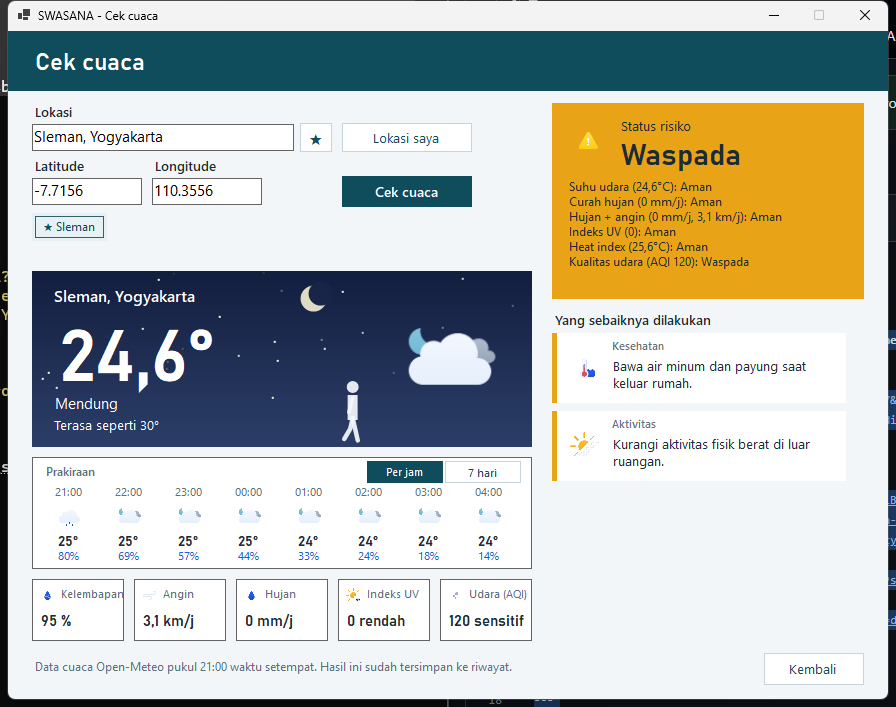
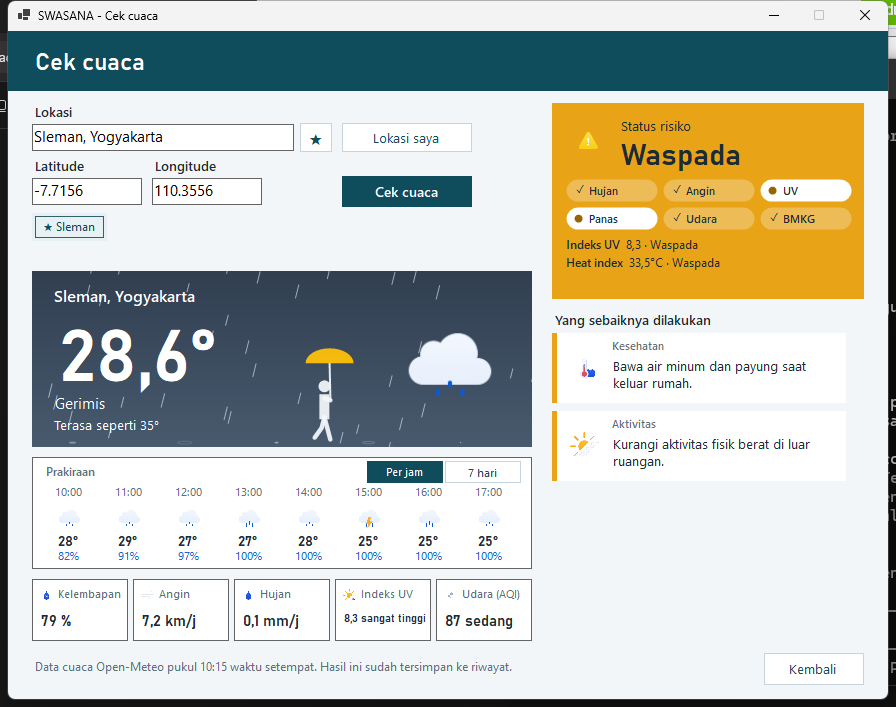
docs: peringatan BMKG, diagram, dan hasil pengujian terbaru

diff --git a/PENGUJIAN.md b/PENGUJIAN.md
@@ -1,6 +1,6 @@
 # Pengujian SWASANA (MVP Modul 10)
 
-Pengujian terakhir dilakukan pada 22/11/2026 malam (sekitar pukul 21.30 WIB) terhadap kode `main` terbaru (Windows 11, PostgreSQL 18). Database `swasana_db` dihapus dulu sebelum pengujian, supaya pembuatan database otomatis ikut teruji. Karena memakai cuaca sungguhan, nilai suhu dan status di bawah mengikuti kondisi saat pengujian.
+Pengujian terakhir dilakukan pada 23/11/2026 pagi (sekitar pukul 10.30 WIB, Windows 11) dengan aturan risiko berbasis BMKG dan jurnal. T01 dan T02 dijalankan pada PostgreSQL 18 lokal; T03 sampai T22 memakai database online Supabase dengan akun baru `penguji_2311`. Pembuatan database dan tabel otomatis diuji pada pengujian sebelumnya (database lokal dikosongkan dulu). Karena memakai cuaca sungguhan, nilai suhu dan status di bawah mengikuti kondisi saat pengujian.
 Langkah-langkahnya dijalankan otomatis lewat UI Automation. Bukti screenshot ada di folder [`docs/pengujian/`](docs/pengujian/).
 
 ## 1. Pengujian fungsional (black box)
@@ -9,48 +9,49 @@ Langkah-langkahnya dijalankan otomatis lewat UI Automation. Bukti screenshot ada
 |---|---|---|---|---|---|
 | T01 | Koneksi database | Password PostgreSQL salah | Pesan di form menjelaskan password salah | *"Password PostgreSQL salah. Pakai password yang dibuat saat menginstal PostgreSQL."* | Lulus |
 | T02 | Koneksi database | Port diisi `abc` | Pesan validasi di form | *"Host, database, dan username wajib diisi, dan port harus berupa angka (biasanya 5432)."* | Lulus |
-| T03 | Koneksi database | Data benar, database belum ada | Database, 6 tabel, dan data awal dibuat, lalu jendela login terbuka | Jendela login terbuka; 6 tabel dan 6 rekomendasi ada di database | Lulus |
+| T03 | Koneksi database | Exe dengan database online bawaan dibuka | Langsung tersambung, jendela login terbuka | Jendela login terbuka | Lulus |
 | T04 | Login | Username kosong | Pesan validasi di form | *"Isi username dulu untuk masuk."* | Lulus |
-| T05 | Login | Username baru `marcel` | User didaftarkan, menu utama terbuka | *"Halo, marcel"* | Lulus |
+| T05 | Login | Username baru `penguji_2311`, pilih **Yes** pada konfirmasi | Konfirmasi akun baru muncul; user didaftarkan, menu utama terbuka | *"Halo, penguji_2311"* | Lulus |
 | T06 | Menu | Klik **Tentang SWASANA** | Info aplikasi tampil | MessageBox Tentang | Lulus |
-| T07 | Navigasi | Buka **Cek cuaca** | Menu disembunyikan selama form terbuka | Menu tersembunyi | Lulus |
+| T07 | Navigasi | Buka **Cek cuaca** | Cek cuaca terbuka sebagai jendela dialog di atas menu | Sesuai | Lulus |
 | T08 | Cek cuaca | Lokasi kosong | Pesan validasi di form | *"Isi nama lokasi dulu, misalnya Sleman."* | Lulus |
 | T09 | Cek cuaca | Lokasi `Xyzqwerty` | Pesan lokasi tidak ditemukan | *"Lokasi "Xyzqwerty" tidak ditemukan. ..."* | Lulus |
 | T10 | Saran lokasi (Web API) | Ketik `Slem`, lalu tekan Enter | Daftar saran muncul; memilih saran mengisi nama dan koordinat lalu langsung mengecek cuaca | 8 saran tampil; terpilih *Sleman, Yogyakarta* (-7.7156, 110.3556) | Lulus |
-| T11 | Cuaca + risiko (Web API) | Hasil cek Sleman | Suhu, kondisi, detail, prakiraan per jam, status, rincian 5 aturan beserta nilainya, dan rekomendasi tampil, lalu tersimpan | 24,6°, Mendung, 95 %, AQI 120 → **Waspada** (dari aturan kualitas udara); tersimpan | Lulus |
+| T11 | Cuaca + risiko (Web API) | Hasil cek Sleman | Suhu, kondisi, detail, prakiraan per jam, status, chip 6 aturan, rincian aturan pemicu beserta nilainya, dan rekomendasi tampil, lalu tersimpan | 28,6°, Gerimis, 79 %, 7,2 km/j, 0,1 mm/j → **Waspada** (indeks UV 8,3 dan heat index 33,5 °C); tersimpan | Lulus |
 | T20 | Lokasi favorit | Klik ☆ pada Sleman | Lokasi tersimpan sebagai favorit, muncul tombol cepat, bintang menjadi ★ | *"Sleman, Yogyakarta disimpan ke favorit."*, tombol ★ Sleman muncul | Lulus |
 | T21 | Prakiraan 7 hari | Klik **7 hari** | Tampil 7 kolom hari: ikon, suhu maks/min, peluang hujan | 7 kolom tampil | Lulus |
 | T12 | Validasi koordinat | Latitude `100` | Pesan validasi di form | *"Latitude harus -90 s.d. 90 dan longitude -180 s.d. 180."* | Lulus |
-| T13 | Status sesuai aturan | Lokasi `Ho Chi Minh` | Status dihitung dari 5 aturan, kartu rekomendasi sesuai status | 28,2°, Cerah, **Waspada**; kartu saran Waspada | Lulus |
-| T14 | Koordinat manual | Alice Springs, lat `-23,698` lon `133,8807` (pakai koma) | Koma diterima; status dihitung dari 5 aturan | 28,1° (malam), semua aturan Aman → **Aman** | Lulus |
+| T13 | Status sesuai aturan | Lokasi `Ho Chi Minh` | Status dihitung dari 6 aturan, kartu rekomendasi sesuai status | 31,8°, Mendung, **Waspada**; kartu saran Waspada | Lulus |
+| T14 | Koordinat manual | Alice Springs, lat `-23,698` lon `133,8807` (pakai koma) | Koma diterima; status dihitung dari 6 aturan | 36,1°, **Waspada** (indeks UV 9,5 dan heat index 34,3 °C); tidak Bahaya karena suhu udara saja tidak lagi dinilai | Lulus |
 | T22 | Lokasi favorit | Klik tombol **★ Sleman** | Cuaca Sleman langsung dicek sekali klik | Sleman, Yogyakarta, **Waspada** | Lulus |
-| T15 | Navigasi | Klik **Kembali** | Menu tampil lagi | Menu tampil | Lulus |
-| T16 | Riwayat + grafik tren | Buka **Riwayat** | Semua pengecekan user tampil, terbaru di atas; grafik suhu maks/min harian dari `weather_data` | 4 data; grafik tampil (1 hari data, dengan petunjuk bahwa tren butuh ≥ 2 hari) | Lulus |
+| T15 | Navigasi | Klik **Kembali** | Jendela Cek cuaca tertutup, menu aktif lagi | Sesuai | Lulus |
+| T16 | Riwayat + grafik tren | Buka **Riwayat** | Semua pengecekan user tampil, terbaru di atas; grafik suhu maks/min harian dari `weather_data` | 4 data; grafik tampil | Lulus |
 | T17 | Riwayat | Cari `hO cHi` | Hanya Ho Chi Minh tampil (tidak peka huruf besar/kecil) | 1 data | Lulus |
 | T18 | Riwayat | Cari `Bandung` | Pesan riwayat kosong | 0 data, pesan *"Tidak ada riwayat untuk "Bandung"..."* | Lulus |
 | T19 | Keluar | Klik **Keluar** | Aplikasi tertutup | Proses berhenti | Lulus |
 
-Ketiga status (Aman, Waspada, Bahaya) beserta batas setiap aturan juga diuji lewat unit test, karena status dari cuaca sungguhan bergantung pada kondisi saat pengujian. Pada pengujian siang hari sebelumnya, Alice Springs (37 °C) menghasilkan status **Bahaya**.
+Ketiga status (Aman, Waspada, Bahaya) beserta batas setiap aturan juga diuji lewat unit test, karena status dari cuaca sungguhan bergantung pada kondisi saat pengujian. Contohnya hujan mulai 20 mm/jam, angin di atas 45 km/jam saat hujan lebat, heat index mulai 41 °C, AQI mulai 151, dan peringatan BMKG berkeparahan *Severe* menghasilkan **Bahaya**.
 
 Diuji manual (di luar skrip otomatis):
 
 | Fitur | Hasil |
 |---|---|
+| **Peringatan dini BMKG** | Rajabasa, Lampung (-4,2943; 105,2519) pada 23/11/2026 pukul 10.00 WIB: peringatan *Hujan Lebat dan Petir* (berlaku s.d. 11.30) terdeteksi, aturan BMKG **Waspada**, chip BMKG menyala ([screenshot](docs/pengujian/T23-peringatan-bmkg.png)) |
 | **Lokasi saya** (layanan lokasi Windows) | Menemukan *Melati, Yogyakarta* (-7.7593, 110.3712), lalu langsung menampilkan cuacanya |
 | Adegan animasi per cuaca | Hujan: orang berpayung + rintik. Panas: topi lebar + botol minum + gelombang panas. Sangat panas: berteduh di bawah payung |
 | Animasi saat hasil keluar | Garis loading, suhu berjalan ke nilai baru, warna langit berganti halus, kartu risiko berputar 3D, kartu rekomendasi masuk bergantian |
 
 ## 2. Pengujian unit (xUnit)
 
-Perintah: `dotnet test Swasana.Tests` → **61 lulus, 0 gagal**.
+Perintah: `dotnet test Swasana.Tests` → **72 lulus, 0 gagal**.
 
 | Test | Yang diuji |
 |---|---|
 | `UvRule_SkalaWho`, `HeatIndex_SesuaiTabelNoaa`, `HeatIndexRule_Klasifikasi`, `KualitasUdaraRule_UsAqi` | Aturan baru: UV 8/11, heat index NOAA (32 °C Waspada, 41 °C Bahaya), US AQI 101/151; AQI tidak tersedia tidak menaikkan risiko |
-| `RiskEvaluator_MemakaiLimaAturan` | Evaluator menjalankan 5 aturan; risiko naik hanya karena kualitas udara |
+| `RiskEvaluator_MemakaiEnamAturan` | Evaluator menjalankan 6 aturan; risiko naik hanya karena kualitas udara |
 | `ParseAirQuality_*`, `ParseCurrent_MembacaPrakiraanHarian` | Data AQI/PM2.5 dan prakiraan 7 hari dibaca benar, nilai null dari API ditangani |
 | `EvaluateRisk_HujanDanAnginSesuaiBmkg` (7 kasus) | Batas kategori hujan BMKG: Aman (kering; 9,9 mm/jam), Waspada (10 dan 19,9 mm/jam; hujan 15 mm/jam dengan angin tepat 45 km/jam), Bahaya (tepat 20 mm/jam; hujan 15 mm/jam + angin 46 km/jam) |
-| `Rincian_BerisiSemuaAturan` | `RiskEvaluator.rincian()` mengembalikan hasil 5 aturan; 34 °C dengan kelembapan 75 % membuat heat index Bahaya |
+| `Rincian_BerisiSemuaAturan` | `RiskEvaluator.rincian()` mengembalikan hasil 6 aturan; 34 °C dengan kelembapan 75 % membuat heat index Bahaya |
 | `ParseCurrent_MembacaJsonOpenMeteo` | JSON cuaca dibaca menjadi `WeatherData`, termasuk kode cuaca dan siang/malam |
 | `ParseGeocode_*`, `ParseSaran_*` | Hasil geocoding dan saran lokasi; lokasi Indonesia didahulukan; tanpa hasil menghasilkan null/kosong |
 | `NamaCuaca_SesuaiKodeWmo` (7 kasus) | Kode cuaca WMO dipetakan ke ikon yang benar (cerah siang/malam, hujan, hujan lebat, badai) |
@@ -60,6 +61,9 @@ Perintah: `dotnet test Swasana.Tests` → **61 lulus, 0 gagal**.
 | `NilaiAturan_MenampilkanNilaiYangDinilai`, `WarnaLangit_MalamTidakDipengaruhiKodeCuaca` | Nilai yang dinilai tiap aturan ditampilkan; langit malam sama untuk semua kode cuaca |
 | `BuatCsv_*` | Ekspor riwayat: header dan satu baris per data; nama lokasi dengan koma atau tanda kutip diberi kutip, awalan `=` diamankan dari rumus Excel |
 | `BacaUri_*` | URI koneksi Supabase dipecah ke host, port, database, dan username; password placeholder `[YOUR-...]` diabaikan, password dengan karakter khusus didekode, dan teks yang bukan URI menghasilkan null |
+| `BacaCap_MembacaInfoDanPolygon`, `DiDalam_RayCasting` (3 kasus) | Dokumen CAP peringatan dini BMKG terbaca (kejadian, keparahan, waktu berakhir, polygon); titik di dalam/luar polygon wilayah peringatan |
+| `Pilih_HanyaPeringatanYangMasihBerlaku`, `CariAsync_LuarIndonesiaTanpaInternet` | Peringatan kedaluwarsa atau di luar wilayah diabaikan; lokasi di luar Indonesia tidak mengakses BMKG |
+| `PeringatanBmkgRule_KeparahanCap` (5 kasus) | Tanpa peringatan → Aman; Minor/Moderate → Waspada; Severe/Extreme → Bahaya |
 | `PilihSsl_OnlineWajibTerenkripsi` | Host lokal (`localhost`, `127.0.0.1`) memakai SSL `Prefer`; server online memakai `Require` |
 
 ## 3. Pengujian instalasi dan aksesibilitas

diff --git a/README.md b/README.md
@@ -35,7 +35,7 @@ Aplikasi cuaca pada umumnya hanya menampilkan angka mentah (suhu, kelembapan, cu
 | Lokasi saya | Memakai layanan lokasi Windows, lalu nama tempatnya dicari otomatis |
 | Lokasi favorit | Simpan lokasi dengan tombol ☆, cek cuacanya sekali klik |
 | Prakiraan | Per jam (8 jam) dan 7 hari ke depan |
-| Status risiko | Aman / Waspada / Bahaya dari 5 aturan berbasis BMKG, WHO, NOAA, dan US EPA, ditampilkan beserta nilai yang dinilai |
+| Status risiko | Aman / Waspada / Bahaya dari 6 aturan berbasis BMKG, WHO, NOAA, dan US EPA, termasuk peringatan dini resmi BMKG, ditampilkan beserta nilai yang dinilai |
 | Saran tindakan | Kartu saran per kategori (aktivitas, kesehatan, perlindungan diri) |
 | Riwayat | Semua pengecekan tersimpan, bisa dicari per lokasi dan disaring per status, dengan grafik tren suhu harian dan ekspor ke CSV |
 | Database | PostgreSQL lokal atau database online (Supabase, cukup tempel URI); database dan tabel dibuat otomatis |
@@ -62,6 +62,10 @@ Aplikasi cuaca pada umumnya hanya menampilkan angka mentah (suhu, kelembapan, cu
 
 ![Alice Springs](docs/pengujian/T14-hasil-alice-springs.png)
 
+**Peringatan dini resmi BMKG ikut dinilai (lokasi di Indonesia)**
+
+![Peringatan BMKG](docs/pengujian/T23-peringatan-bmkg.png)
+
 **Riwayat dan grafik tren suhu harian**
 
 ![Riwayat](docs/pengujian/T16-riwayat-dan-tren.png)
@@ -79,7 +83,7 @@ Kebutuhan: Windows 10 (versi 2004+) / 11 64-bit dan koneksi internet. Panduan le
 
 ## Aturan risiko
 
-Status akhir adalah tingkat tertinggi dari lima aturan. Setiap aturan adalah class turunan dari `RiskRule` (inheritance) yang mengisi method `Evaluate()` dengan caranya sendiri (polymorphism). Ambang tiap aturan diambil dari peraturan BMKG, pedoman resmi, dan jurnal.
+Status akhir adalah tingkat tertinggi dari enam aturan. Setiap aturan adalah class turunan dari `RiskRule` (inheritance) yang mengisi method `Evaluate()` dengan caranya sendiri (polymorphism). Ambang tiap aturan diambil dari peraturan BMKG, pedoman resmi, dan jurnal.
 
 | Aturan | Waspada | Bahaya | Rujukan |
 |---|---|---|---|
@@ -88,8 +92,9 @@ Status akhir adalah tingkat tertinggi dari lima aturan. Setiap aturan adalah cla
 | Indeks UV | sangat tinggi, 8–10 | ekstrem, mulai 11 | [3], [4] |
 | Heat index (dari suhu dan kelembapan) | *extreme caution*, 32–41 °C | *danger*, mulai 41 °C | [5], [6] |
 | Kualitas udara (US AQI) | tidak sehat bagi kelompok sensitif, 101–150 | tidak sehat, mulai 151 | [7], [8] |
+| Peringatan dini BMKG (khusus Indonesia) | ada peringatan aktif di lokasi | peringatan berkeparahan *Severe* atau *Extreme* | [9], [10] |
 
-Aturan suhu udara saja (di atas 33/35 °C) dihapus karena ambang itu tidak ada di peraturan BMKG maupun jurnal; BMKG mendefinisikan suhu ekstrem sebagai penyimpangan dari normal setempat. Penilaian panas memakai heat index, yang menggabungkan suhu dan kelembapan.
+Aturan suhu udara saja (di atas 33/35 °C) dihapus karena ambang itu tidak ada di peraturan BMKG maupun jurnal; BMKG mendefinisikan suhu ekstrem sebagai penyimpangan dari normal setempat. Penilaian panas memakai heat index, yang menggabungkan suhu dan kelembapan. Peringatan dini BMKG diambil dari feed resmi BMKG (format CAP): aplikasi mengecek apakah koordinat lokasi berada di dalam polygon wilayah peringatan yang masih berlaku.
 
 ### Rujukan
 
@@ -101,6 +106,8 @@ Aturan suhu udara saja (di atas 33/35 °C) dihapus karena ambang itu tidak ada d
 6. Anderson, G. B., Bell, M. L., & Peng, R. D. (2013). Methods to calculate the heat index as an exposure metric in environmental health research. *Environmental Health Perspectives, 121*(10), 1111–1119. https://doi.org/10.1289/ehp.1206273
 7. U.S. Environmental Protection Agency. (2018). *Technical Assistance Document for the Reporting of Daily Air Quality – the Air Quality Index (AQI)* (EPA-454/B-18-007).
 8. Plaia, A., & Ruggieri, M. (2011). Air quality indices: a review. *Reviews in Environmental Science and Bio/Technology, 10*(2), 165–179. https://doi.org/10.1007/s11157-010-9227-2
+9. Badan Meteorologi, Klimatologi, dan Geofisika. (2022). *Peraturan BMKG Nomor 9 Tahun 2022 tentang Peringatan Dini Cuaca Ekstrem*. Data: https://www.bmkg.go.id/alerts/nowcast/id
+10. OASIS. (2010). *Common Alerting Protocol Version 1.2*. OASIS Standard. http://docs.oasis-open.org/emergency/cap/v1.2/CAP-v1.2-os.html
 
 ## Rancangan sistem
 
@@ -143,7 +150,7 @@ Enam tabel di PostgreSQL. Database, tabel, dan data awal dibuat otomatis oleh ap
 
 ### Layanan dan aturan risiko
 
-`RiskEvaluator` menyimpan lima objek turunan `RiskRule` dalam satu daftar dan memanggil `Evaluate()` milik masing-masing (polymorphism).
+`RiskEvaluator` menyimpan enam objek turunan `RiskRule` dalam satu daftar dan memanggil `Evaluate()` milik masing-masing (polymorphism).
 
 ![Class diagram layanan](docs/diagram/class-layanan.png)
 
@@ -160,7 +167,7 @@ Sumber semua diagram (format Mermaid) ada di folder [`docs/diagram`](https://git
 |---|---|
 | Aplikasi | C#, .NET 10, Windows Forms |
 | Basis data | PostgreSQL (lokal) atau Supabase (online), driver Npgsql |
-| Data cuaca | Open-Meteo: Geocoding, Forecast, Air Quality |
+| Data cuaca | Open-Meteo: Geocoding, Forecast, Air Quality; BMKG: peringatan dini cuaca (CAP) |
 | Lokasi | Layanan lokasi Windows, BigDataCloud (nama tempat) |
 | Tampilan | Ikon Meteocons, animasi FluentTransitions |
 | Pengujian | xUnit, UI Automation |
@@ -191,6 +198,7 @@ Menjalankan dari kode sumber: `dotnet run --project Swasana`; menjalankan test: 
 ## Kredit
 
 - Data cuaca, kualitas udara, dan geocoding: [Open-Meteo](https://open-meteo.com) (CC BY 4.0)
+- Peringatan dini cuaca: [BMKG](https://www.bmkg.go.id/alerts/nowcast/id)
 - Nama tempat dari koordinat: [BigDataCloud](https://www.bigdatacloud.com)
 - Ikon cuaca: [Meteocons](https://github.com/basmilius/meteocons) oleh Bas Milius (MIT)
 - Animasi: [FluentTransitions](https://github.com/awaescher/FluentTransitions) (MIT)

diff --git a/docs/index.md b/docs/index.md
@@ -40,7 +40,7 @@ Aplikasi cuaca pada umumnya hanya menampilkan angka mentah (suhu, kelembapan, cu
 | Lokasi saya | Memakai layanan lokasi Windows, lalu nama tempatnya dicari otomatis |
 | Lokasi favorit | Simpan lokasi dengan tombol ☆, cek cuacanya sekali klik |
 | Prakiraan | Per jam (8 jam) dan 7 hari ke depan |
-| Status risiko | Aman / Waspada / Bahaya dari 5 aturan berbasis BMKG, WHO, NOAA, dan US EPA, ditampilkan beserta nilai yang dinilai |
+| Status risiko | Aman / Waspada / Bahaya dari 6 aturan berbasis BMKG, WHO, NOAA, dan US EPA, termasuk peringatan dini resmi BMKG, ditampilkan beserta nilai yang dinilai |
 | Saran tindakan | Kartu saran per kategori (aktivitas, kesehatan, perlindungan diri) |
 | Riwayat | Semua pengecekan tersimpan, bisa dicari per lokasi dan disaring per status, dengan grafik tren suhu harian dan ekspor ke CSV |
 | Database | PostgreSQL lokal atau database online (Supabase, cukup tempel URI); database dan tabel dibuat otomatis |
@@ -67,6 +67,10 @@ Aplikasi cuaca pada umumnya hanya menampilkan angka mentah (suhu, kelembapan, cu
 
 ![Alice Springs](pengujian/T14-hasil-alice-springs.png)
 
+**Peringatan dini resmi BMKG ikut dinilai (lokasi di Indonesia)**
+
+![Peringatan BMKG](pengujian/T23-peringatan-bmkg.png)
+
 **Riwayat dan grafik tren suhu harian**
 
 ![Riwayat](pengujian/T16-riwayat-dan-tren.png)
@@ -84,7 +88,7 @@ Kebutuhan: Windows 10 (versi 2004+) / 11 64-bit dan koneksi internet. Panduan le
 
 ## Aturan risiko
 
-Status akhir adalah tingkat tertinggi dari lima aturan. Setiap aturan adalah class turunan dari `RiskRule` (inheritance) yang mengisi method `Evaluate()` dengan caranya sendiri (polymorphism). Ambang tiap aturan diambil dari peraturan BMKG, pedoman resmi, dan jurnal.
+Status akhir adalah tingkat tertinggi dari enam aturan. Setiap aturan adalah class turunan dari `RiskRule` (inheritance) yang mengisi method `Evaluate()` dengan caranya sendiri (polymorphism). Ambang tiap aturan diambil dari peraturan BMKG, pedoman resmi, dan jurnal.
 
 | Aturan | Waspada | Bahaya | Rujukan |
 |---|---|---|---|
@@ -93,8 +97,9 @@ Status akhir adalah tingkat tertinggi dari lima aturan. Setiap aturan adalah cla
 | Indeks UV | sangat tinggi, 8–10 | ekstrem, mulai 11 | [3], [4] |
 | Heat index (dari suhu dan kelembapan) | *extreme caution*, 32–41 °C | *danger*, mulai 41 °C | [5], [6] |
 | Kualitas udara (US AQI) | tidak sehat bagi kelompok sensitif, 101–150 | tidak sehat, mulai 151 | [7], [8] |
+| Peringatan dini BMKG (khusus Indonesia) | ada peringatan aktif di lokasi | peringatan berkeparahan *Severe* atau *Extreme* | [9], [10] |
 
-Aturan suhu udara saja (di atas 33/35 °C) dihapus karena ambang itu tidak ada di peraturan BMKG maupun jurnal; BMKG mendefinisikan suhu ekstrem sebagai penyimpangan dari normal setempat. Penilaian panas memakai heat index, yang menggabungkan suhu dan kelembapan.
+Aturan suhu udara saja (di atas 33/35 °C) dihapus karena ambang itu tidak ada di peraturan BMKG maupun jurnal; BMKG mendefinisikan suhu ekstrem sebagai penyimpangan dari normal setempat. Penilaian panas memakai heat index, yang menggabungkan suhu dan kelembapan. Peringatan dini BMKG diambil dari feed resmi BMKG (format CAP): aplikasi mengecek apakah koordinat lokasi berada di dalam polygon wilayah peringatan yang masih berlaku.
 
 ### Rujukan
 
@@ -106,6 +111,8 @@ Aturan suhu udara saja (di atas 33/35 °C) dihapus karena ambang itu tidak ada d
 6. Anderson, G. B., Bell, M. L., & Peng, R. D. (2013). Methods to calculate the heat index as an exposure metric in environmental health research. *Environmental Health Perspectives, 121*(10), 1111–1119. https://doi.org/10.1289/ehp.1206273
 7. U.S. Environmental Protection Agency. (2018). *Technical Assistance Document for the Reporting of Daily Air Quality – the Air Quality Index (AQI)* (EPA-454/B-18-007).
 8. Plaia, A., & Ruggieri, M. (2011). Air quality indices: a review. *Reviews in Environmental Science and Bio/Technology, 10*(2), 165–179. https://doi.org/10.1007/s11157-010-9227-2
+9. Badan Meteorologi, Klimatologi, dan Geofisika. (2022). *Peraturan BMKG Nomor 9 Tahun 2022 tentang Peringatan Dini Cuaca Ekstrem*. Data: https://www.bmkg.go.id/alerts/nowcast/id
+10. OASIS. (2010). *Common Alerting Protocol Version 1.2*. OASIS Standard. http://docs.oasis-open.org/emergency/cap/v1.2/CAP-v1.2-os.html
 
 ## Rancangan sistem
 
@@ -148,7 +155,7 @@ Enam tabel di PostgreSQL. Database, tabel, dan data awal dibuat otomatis oleh ap
 
 ### Layanan dan aturan risiko
 
-`RiskEvaluator` menyimpan lima objek turunan `RiskRule` dalam satu daftar dan memanggil `Evaluate()` milik masing-masing (polymorphism).
+`RiskEvaluator` menyimpan enam objek turunan `RiskRule` dalam satu daftar dan memanggil `Evaluate()` milik masing-masing (polymorphism).
 
 ![Class diagram layanan](diagram/class-layanan.png)
 
@@ -165,7 +172,7 @@ Sumber semua diagram (format Mermaid) ada di folder [`docs/diagram`](https://git
 |---|---|
 | Aplikasi | C#, .NET 10, Windows Forms |
 | Basis data | PostgreSQL (lokal) atau Supabase (online), driver Npgsql |
-| Data cuaca | Open-Meteo: Geocoding, Forecast, Air Quality |
+| Data cuaca | Open-Meteo: Geocoding, Forecast, Air Quality; BMKG: peringatan dini cuaca (CAP) |
 | Lokasi | Layanan lokasi Windows, BigDataCloud (nama tempat) |
 | Tampilan | Ikon Meteocons, animasi FluentTransitions |
 | Pengujian | xUnit, UI Automation |
@@ -196,6 +203,7 @@ Menjalankan dari kode sumber: `dotnet run --project Swasana`; menjalankan test: 
 ## Kredit
 
 - Data cuaca, kualitas udara, dan geocoding: [Open-Meteo](https://open-meteo.com) (CC BY 4.0)
+- Peringatan dini cuaca: [BMKG](https://www.bmkg.go.id/alerts/nowcast/id)
 - Nama tempat dari koordinat: [BigDataCloud](https://www.bigdatacloud.com)
 - Ikon cuaca: [Meteocons](https://github.com/basmilius/meteocons) oleh Bas Milius (MIT)
 - Animasi: [FluentTransitions](https://github.com/awaescher/FluentTransitions) (MIT)

diff --git a/PANDUAN.md b/PANDUAN.md
@@ -85,7 +85,7 @@ Skema SQL lengkap ada di `swasana_schema.sql` jika ingin dijalankan manual lewat
 
 ### Aturan risiko
 
-Status akhir = tingkat tertinggi dari lima aturan berikut. Ambangnya diambil dari peraturan BMKG, pedoman resmi, dan jurnal.
+Status akhir = tingkat tertinggi dari enam aturan berikut. Ambangnya diambil dari peraturan BMKG, pedoman resmi, dan jurnal. Kartu status menampilkan satu chip per aturan (✓ berarti aman) dan rincian aturan yang memicu.
 
 | Aturan | Waspada | Bahaya | Rujukan |
 |---|---|---|---|
@@ -94,8 +94,9 @@ Status akhir = tingkat tertinggi dari lima aturan berikut. Ambangnya diambil dar
 | Indeks UV | sangat tinggi, 8–10 | ekstrem, mulai 11 | [3], [4] |
 | Heat index (dari suhu dan kelembapan) | *extreme caution*, 32–41 °C | *danger*, mulai 41 °C | [5], [6] |
 | Kualitas udara (US AQI) | tidak sehat bagi kelompok sensitif, 101–150 | tidak sehat, mulai 151 | [7], [8] |
+| Peringatan dini BMKG (khusus Indonesia) | ada peringatan aktif di lokasi | peringatan berkeparahan *Severe* atau *Extreme* | [9], [10] |
 
-Aturan suhu udara saja (di atas 33/35 °C) dihapus karena ambang itu tidak ada di peraturan BMKG maupun jurnal; BMKG mendefinisikan suhu ekstrem sebagai penyimpangan dari normal setempat. Penilaian panas memakai heat index, yang menggabungkan suhu dan kelembapan.
+Aturan suhu udara saja (di atas 33/35 °C) dihapus karena ambang itu tidak ada di peraturan BMKG maupun jurnal; BMKG mendefinisikan suhu ekstrem sebagai penyimpangan dari normal setempat. Penilaian panas memakai heat index, yang menggabungkan suhu dan kelembapan. Peringatan dini BMKG diambil dari feed resmi BMKG (format CAP): aplikasi mengecek apakah koordinat lokasi berada di dalam polygon wilayah peringatan yang masih berlaku.
 
 **Rujukan**
 
@@ -107,6 +108,8 @@ Aturan suhu udara saja (di atas 33/35 °C) dihapus karena ambang itu tidak ada d
 6. Anderson, G. B., Bell, M. L., & Peng, R. D. (2013). Methods to calculate the heat index as an exposure metric in environmental health research. *Environmental Health Perspectives, 121*(10), 1111–1119. https://doi.org/10.1289/ehp.1206273
 7. U.S. Environmental Protection Agency. (2018). *Technical Assistance Document for the Reporting of Daily Air Quality – the Air Quality Index (AQI)* (EPA-454/B-18-007).
 8. Plaia, A., & Ruggieri, M. (2011). Air quality indices: a review. *Reviews in Environmental Science and Bio/Technology, 10*(2), 165–179. https://doi.org/10.1007/s11157-010-9227-2
+9. Badan Meteorologi, Klimatologi, dan Geofisika. (2022). *Peraturan BMKG Nomor 9 Tahun 2022 tentang Peringatan Dini Cuaca Ekstrem*. Data: https://www.bmkg.go.id/alerts/nowcast/id
+10. OASIS. (2010). *Common Alerting Protocol Version 1.2*. OASIS Standard. http://docs.oasis-open.org/emergency/cap/v1.2/CAP-v1.2-os.html
 
 ### Animasi
 
